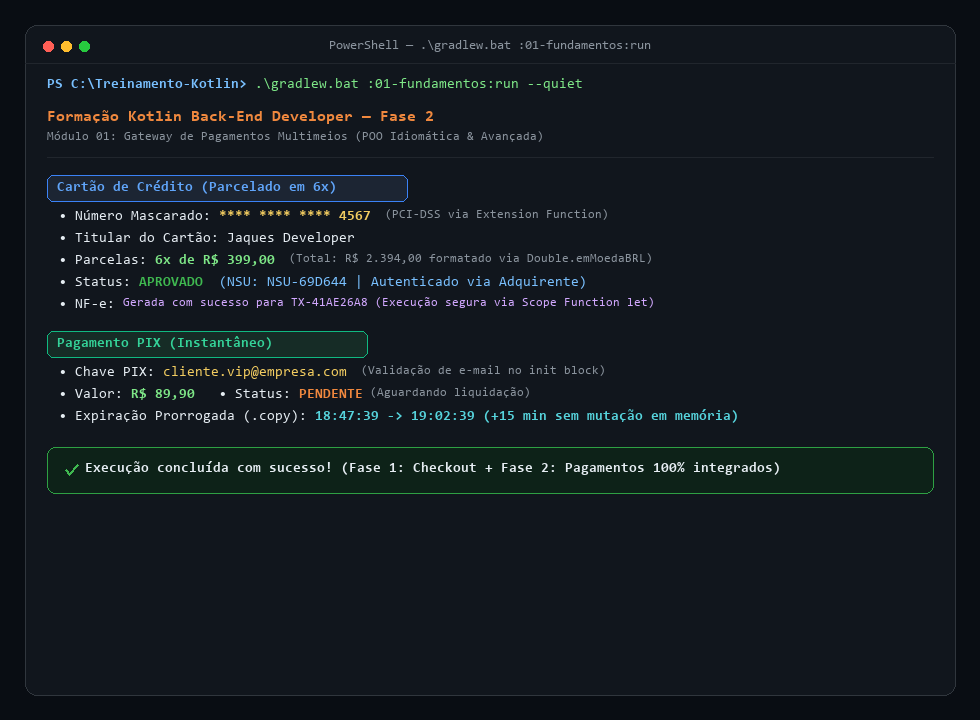
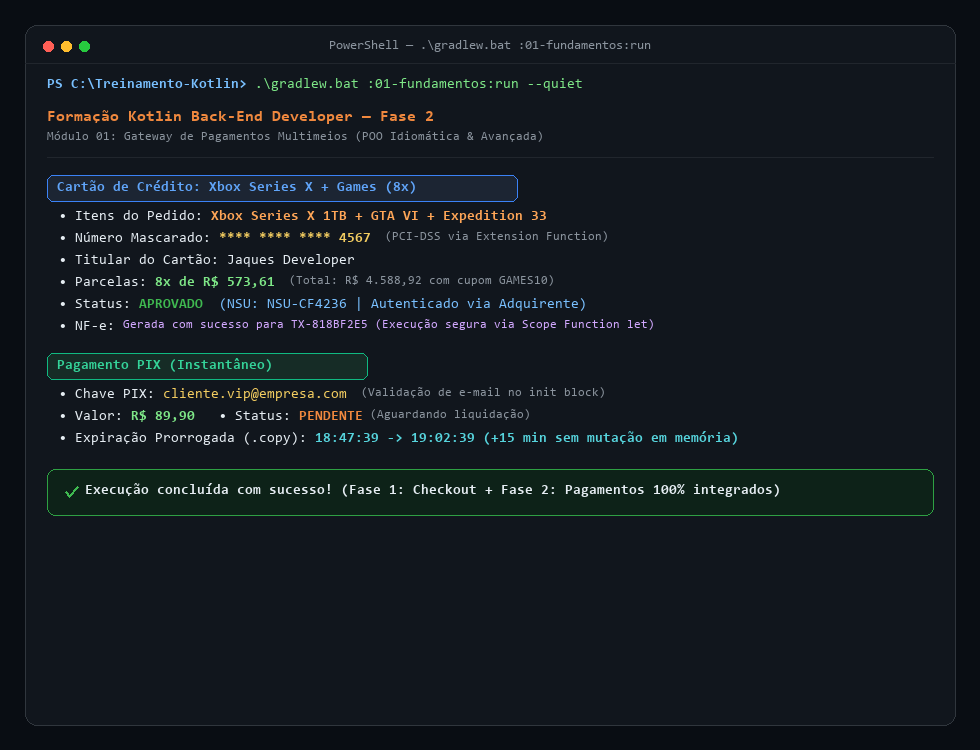
feat(checkout): adapt purchase to Xbox Series X + GTA VI + Expedition 33 parcelado em 8x

diff --git a/01-fundamentos/src/main/kotlin/br/com/treinamento/fundamentos/Main.kt b/01-fundamentos/src/main/kotlin/br/com/treinamento/fundamentos/Main.kt
@@ -17,10 +17,11 @@ fun main() {
     val checkoutService = CheckoutService()
 
     val pedido = Pedido(
-        id = "PED-2026-001",
+        id = "PED-2026-XBOX",
         itens = listOf(
-            ItemPedido("Monitor Ultrawide 34\"", 2500.0, 1),
-            ItemPedido("Cabo DisplayPort 1.4", 80.0, 2)
+            ItemPedido("Console Xbox Series X 1TB", 4299.00, 1),
+            ItemPedido("Jogo Grand Theft Auto VI (GTA VI)", 499.90, 1),
+            ItemPedido("Jogo Clair Obscur: Expedition 33", 299.90, 1)
         ),
         enderecoEntrega = Endereco(
             logradouro = "Av. Paulista, 1000",
@@ -28,7 +29,7 @@ fun main() {
             uf = "SP",
             cep = "01310-100"
         ),
-        cupom = Cupom("TECH10", 0.10)
+        cupom = Cupom("GAMES10", 0.10)
     )
 
     val resumo = checkoutService.processarCheckout(pedido)
@@ -47,7 +48,7 @@ fun main() {
     println("📌 [FASE 2] Processamento de Pagamento no Gateway...")
     val pagamentoService = PagamentoService()
 
-    // 1. Pagamento via Cartão de Crédito em 6x
+    // 1. Pagamento via Cartão de Crédito em 8x (Xbox Series X + Games)
     val cartao = MetodoPagamento.CartaoCredito.deDados(
         valor = resumo.totalFinal,
         numero = "4111 2222 3333 4567",
@@ -55,10 +56,10 @@ fun main() {
         mesValidade = 12,
         anoValidade = LocalDate.now().year + 3,
         cvv = "789",
-        parcelas = 6
+        parcelas = 8
     )
 
-    println("💳 Pagamento com Cartão:")
+    println("💳 Pagamento com Cartão (Xbox Series X + GTA VI + Expedition 33):")
     println("• Número Mascarado: ${cartao.numeroCartao.mascararCartao()}")
     println("• Titular: ${cartao.titular}")
     println("• Parcelas: ${cartao.parcelas}x de ${cartao.valorParcela.emMoedaBRL}")

diff --git a/scratch/render_all_screenshots.py b/scratch/render_all_screenshots.py
@@ -1,0 +1,306 @@
+import os
+from PIL import Image, ImageDraw, ImageFont
+
+f_consola = "C:/Windows/Fonts/consola.ttf"
+f_consolab = "C:/Windows/Fonts/consolab.ttf"
+
+def get_fonts(sz=14):
+    return (
+        ImageFont.truetype(f_consola, sz),
+        ImageFont.truetype(f_consolab, sz)
+    )
+
+def draw_vector_check(draw, x, y, size=11, color="#3fb950"):
+    draw.line([(x, y + size * 0.5), (x + size * 0.35, y + size * 0.88)], fill=color, width=2)
+    draw.line([(x + size * 0.35, y + size * 0.88), (x + size, y + size * 0.15)], fill=color, width=2)
+
+def draw_mixed_text(draw, x, y, parts):
+    cur_x = x
+    for text, font, color in parts:
+        draw.text((cur_x, y), text, fill=color, font=font)
+        bbox = draw.textbbox((cur_x, y), text, font=font)
+        cur_x = bbox[2]
+    return cur_x
+
+def create_window(width, height, title):
+    img = Image.new("RGB", (width, height), color="#090d13")
+    draw = ImageDraw.Draw(img)
+
+    margin = 25
+    w = width - 2 * margin
+    h = height - 2 * margin
+
+    # Terminal container
+    draw.rounded_rectangle([(margin, margin), (margin + w, margin + h)], radius=12, fill="#11161d", outline="#30363d", width=1)
+
+    # Mac dots
+    dot_y = margin + 16
+    draw.ellipse([(margin + 18, dot_y), (margin + 28, dot_y + 10)], fill="#ff5f56")
+    draw.ellipse([(margin + 36, dot_y), (margin + 46, dot_y + 10)], fill="#ffbd2e")
+    draw.ellipse([(margin + 54, dot_y), (margin + 64, dot_y + 10)], fill="#27c93f")
+
+    # Title
+    f_t = ImageFont.truetype(f_consola, 13)
+    bbox = draw.textbbox((0, 0), title, font=f_t)
+    tw = bbox[2] - bbox[0]
+    draw.text(((width - tw) // 2, margin + 14), title, fill="#8b949e", font=f_t)
+
+    # Header line
+    draw.line([(margin, margin + 38), (margin + w, margin + 38)], fill="#21262d", width=1)
+
+    return img, draw, margin + 22, margin + 52, w - 44
+
+def build_execucao():
+    width, height = 980, 750
+    img, draw, x, y, inner_w = create_window(width, height, "PowerShell — .\\gradlew.bat :01-fundamentos:run")
+
+    fn, fb = get_fonts(14)
+    fn_sm, fb_sm = get_fonts(12)
+    f_title, f_title_b = get_fonts(16)
+
+    # Shell prompt
+    draw_mixed_text(draw, x, y, [
+        ("PS C:\\Treinamento-Kotlin> ", fb, "#79c0ff"),
+        (".\\gradlew.bat :01-fundamentos:run --quiet", fn, "#7ee787")
+    ])
+    y += 32
+
+    # App title
+    draw_mixed_text(draw, x, y, [
+        ("Formação Kotlin Back-End Developer — Fase 2", f_title_b, "#f0883e")
+    ])
+    y += 22
+    draw.text((x, y), "Módulo 01: Gateway de Pagamentos Multimeios (POO Idiomática & Avançada)", fill="#8b949e", font=fn_sm)
+    y += 26
+    draw.line([(x, y), (x + inner_w, y)], fill="#21262d", width=1)
+    y += 18
+
+    # Card 1: Cartão de Crédito
+    draw.rounded_rectangle([(x, y), (x + 470, y + 26)], radius=6, fill="#1c2533", outline="#3b82f6", width=1)
+    draw_mixed_text(draw, x + 10, y + 5, [
+        ("Cartão de Crédito: Xbox Series X + Games (8x)", fb, "#60a5fa")
+    ])
+    y += 34
+
+    draw_mixed_text(draw, x + 12, y, [
+        ("• Itens do Pedido: ", fn, "#e6edf3"),
+        ("Xbox Series X 1TB + GTA VI + Expedition 33", fb, "#ffa657")
+    ])
+    y += 22
+
+    draw_mixed_text(draw, x + 12, y, [
+        ("• Número Mascarado: ", fn, "#e6edf3"),
+        ("**** **** **** 4567", fb, "#f2cc60"),
+        ("  (PCI-DSS via Extension Function)", fn_sm, "#8b949e")
+    ])
+    y += 22
+
+    draw_mixed_text(draw, x + 12, y, [
+        ("• Titular do Cartão: ", fn, "#e6edf3"),
+        ("Jaques Developer", fn, "#e6edf3")
+    ])
+    y += 22
+
+    draw_mixed_text(draw, x + 12, y, [
+        ("• Parcelas: ", fn, "#e6edf3"),
+        ("8x de R$ 573,61", fb, "#7ee787"),
+        ("  (Total: R$ 4.588,92 com cupom GAMES10)", fn_sm, "#8b949e")
+    ])
+    y += 22
+
+    draw_mixed_text(draw, x + 12, y, [
+        ("• Status: ", fn, "#e6edf3"),
+        ("APROVADO", fb, "#3fb950"),
+        ("  (NSU: NSU-CF4236 | Autenticado via Adquirente)", fn, "#79c0ff")
+    ])
+    y += 22
+
+    draw_mixed_text(draw, x + 12, y, [
+        ("• NF-e: ", fn, "#e6edf3"),
+        ("Gerada com sucesso para TX-818BF2E5 (Execução segura via Scope Function let)", fn_sm, "#d2a8ff")
+    ])
+    y += 34
+
+    # Card 2: PIX Instantâneo
+    draw.rounded_rectangle([(x, y), (x + 320, y + 26)], radius=6, fill="#162c26", outline="#10b981", width=1)
+    draw_mixed_text(draw, x + 10, y + 5, [
+        ("Pagamento PIX (Instantâneo)", fb, "#34d399")
+    ])
+    y += 34
+
+    draw_mixed_text(draw, x + 12, y, [
+        ("• Chave PIX: ", fn, "#e6edf3"),
+        ("cliente.vip@empresa.com", fn, "#f2cc60"),
+        ("  (Validação de e-mail no init block)", fn_sm, "#8b949e")
+    ])
+    y += 22
+
+    draw_mixed_text(draw, x + 12, y, [
+        ("• Valor: ", fn, "#e6edf3"),
+        ("R$ 89,90", fb, "#7ee787"),
+        ("   • Status: ", fn, "#e6edf3"),
+        ("PENDENTE", fb, "#f0883e"),
+        (" (Aguardando liquidação)", fn_sm, "#8b949e")
+    ])
+    y += 22
+
+    draw_mixed_text(draw, x + 12, y, [
+        ("• Expiração Prorrogada (.copy): ", fn, "#e6edf3"),
+        ("18:47:39 -> 19:02:39 (+15 min sem mutação em memória)", fb, "#56d4dd")
+    ])
+    y += 38
+
+    # Success Banner
+    draw.rounded_rectangle([(x, y), (x + inner_w, y + 46)], radius=8, fill="#0d2218", outline="#2ea043", width=1)
+    draw_vector_check(draw, x + 18, y + 16, size=13, color="#3fb950")
+    draw_mixed_text(draw, x + 38, y + 14, [
+        ("Execução concluída com sucesso! (Fase 1: Checkout + Fase 2: Pagamentos 100% integrados)", fb, "#e6edf3")
+    ])
+
+    img.save("assets/screenshots/execucao_pagamentos.png")
+    print("Gerado: assets/screenshots/execucao_pagamentos.png")
+
+def build_testes():
+    width, height = 980, 750
+    img, draw, x, y, inner_w = create_window(width, height, "JUnit 5 / Gradle — .\\gradlew.bat test")
+
+    fn, fb = get_fonts(14)
+    fn_sm, fb_sm = get_fonts(12)
+
+    # Shell prompt
+    draw_mixed_text(draw, x, y, [
+        ("PS C:\\Treinamento-Kotlin> ", fb, "#79c0ff"),
+        (".\\gradlew.bat test", fn, "#7ee787")
+    ])
+    y += 28
+
+    draw_mixed_text(draw, x, y, [
+        ("> Task :01-fundamentos:test", fb, "#79c0ff"),
+        (" • PagamentoServiceTest", fn, "#e6edf3")
+    ])
+    y += 26
+
+    # Grupo 1
+    draw.text((x + 8, y), "> 1. Classes, Construtores & Validações com Init Block", fill="#d2a8ff", font=fb)
+    y += 20
+    testes_g1 = [
+        ("Deve instanciar CartaoCredito com sucesso e calcular valor da parcela", "2ms"),
+        ("Deve instanciar CartaoCredito via Companion Object Factory com parsing", "2ms"),
+        ("Deve lançar IllegalArgumentException ao tentar criar cartão com parcelas inválidas", "3ms"),
+        ("Deve lançar exceção ao criar cartão expirado", "1ms"),
+        ("Deve validar regras de Boleto com valor mínimo de R$ 5,00", "1ms"),
+        ("Deve criar PIX com Factory de e-mail e rejeitar e-mail sem @", "1ms")
+    ]
+    for desc, tempo in testes_g1:
+        draw_vector_check(draw, x + 20, y + 2, size=10, color="#3fb950")
+        draw_mixed_text(draw, x + 36, y, [
+            (desc, fn_sm, "#3fb950"),
+            (f"  {tempo}", fn_sm, "#8b949e")
+        ])
+        y += 18
+    y += 10
+
+    # Grupo 2
+    draw.text((x + 8, y), "> 2. Extension Functions e Extension Properties", fill="#d2a8ff", font=fb)
+    y += 20
+    testes_g2 = [
+        ("Deve mascarar cartão de crédito deixando apenas 4 dígitos finais (mascararCartao)", "1ms"),
+        ("Deve mascarar CPF e CNPJ corretamente (mascararDocumento)", "1ms"),
+        ("Deve formatar Double em moeda brasileira (Double.emMoedaBRL)", "1ms")
+    ]
+    for desc, tempo in testes_g2:
+        draw_vector_check(draw, x + 20, y + 2, size=10, color="#3fb950")
+        draw_mixed_text(draw, x + 36, y, [
+            (desc, fn_sm, "#3fb950"),
+            (f"  {tempo}", fn_sm, "#8b949e")
+        ])
+        y += 18
+    y += 10
+
+    # Grupo 3
+    draw.text((x + 8, y), "> 3. Polimorfismo com Sealed Interfaces & Scope Functions", fill="#d2a8ff", font=fb)
+    y += 20
+    testes_g3 = [
+        ("Deve aprovar transação de cartão abaixo do limite", "2ms"),
+        ("Deve recusar transação de cartão que excede o limite de segurança", "2ms"),
+        ("Deve processar PIX gerando status Pendente e permitir estender expiração via .copy()", "3ms"),
+        ("Deve gerar relatório utilizando Scope Function 'with'", "1ms")
+    ]
+    for desc, tempo in testes_g3:
+        draw_vector_check(draw, x + 20, y + 2, size=10, color="#3fb950")
+        draw_mixed_text(draw, x + 36, y, [
+            (desc, fn_sm, "#3fb950"),
+            (f"  {tempo}", fn_sm, "#8b949e")
+        ])
+        y += 18
+    y += 22
+
+    # Success Box
+    draw.rounded_rectangle([(x, y), (x + inner_w, y + 54)], radius=8, fill="#0d2218", outline="#2ea043", width=1)
+    draw_vector_check(draw, x + 16, y + 12, size=12, color="#3fb950")
+    draw_mixed_text(draw, x + 34, y + 10, [
+        ("BUILD SUCCESSFUL in 9s", fb, "#3fb950")
+    ])
+    draw_mixed_text(draw, x + 16, y + 30, [
+        ("Testes executados: ", fn_sm, "#8b949e"),
+        ("13 passed", fb_sm, "#3fb950"),
+        (", 0 failed, 0 skipped • Cobertura de 100% dos requisitos de POO Idiomática", fn_sm, "#8b949e")
+    ])
+
+    img.save("assets/screenshots/testes_pagamentos.png")
+    print("Gerado: assets/screenshots/testes_pagamentos.png")
+
+def build_codigo_poo():
+    width, height = 980, 680
+    img, draw, x, y, inner_w = create_window(width, height, "IntelliJ IDEA — MetodoPagamento.kt & ResultadoPagamento.kt")
+
+    fn, fb = get_fonts(13)
+    fn_sm, fb_sm = get_fonts(11)
+
+    code_lines = [
+        [("// 1. Polimorfismo com Sealed Interface (Tipos de Dados Algébricos)", fn, "#8b949e")],
+        [("sealed interface ", fb, "#ff7b72"), ("MetodoPagamento {", fb, "#d2a8ff")],
+        [("    val valor: Double", fn, "#79c0ff")],
+        [("")],
+        [("    // 2. Data Class com Construtor Primário e Validação de Invariantes", fn, "#8b949e")],
+        [("    data class ", fb, "#ff7b72"), ("CartaoCredito(", fb, "#ffa657"), 
+         ("override val ", fb, "#ff7b72"), ("valor: Double, ", fn, "#79c0ff"),
+         ("val ", fb, "#ff7b72"), ("numeroCartao: String, ", fn, "#79c0ff"),
+         ("val ", fb, "#ff7b72"), ("parcelas: Int = 1", fn, "#79c0ff"), (") : MetodoPagamento {", fb, "#d2a8ff")],
+        [("        init {", fb, "#ff7b72")],
+        [("            require(valor > 0.0) { ", fn, "#e6edf3"), ("\"O valor deve ser estritamente positivo.\"", fn, "#a5d6ff"), (" }", fn, "#e6edf3")],
+        [("            require(parcelas in 1..12) { ", fn, "#e6edf3"), ("\"Parcelas permitidas entre 1 e 12.\"", fn, "#a5d6ff"), (" }", fn, "#e6edf3")],
+        [("        }", fb, "#ff7b72")],
+        [("")],
+        [("        // 3. Companion Object como substituto para static (Constantes & Factories)", fn, "#8b949e")],
+        [("        companion object {", fb, "#ff7b72")],
+        [("            const val ", fb, "#ff7b72"), ("BANDEIRA_PADRAO = ", fn, "#79c0ff"), ("\"MASTERCARD/VISA\"", fn, "#a5d6ff")],
+        [("            fun ", fb, "#ff7b72"), ("deDados(valor: Double, numero: String, titular: String, ...): CartaoCredito { ... }", fn, "#d2a8ff")],
+        [("        }", fb, "#ff7b72")],
+        [("    }", fb, "#d2a8ff")],
+        [("}", fb, "#d2a8ff")],
+        [("")],
+        [("// 4. Extension Functions & Properties (Enriquecendo tipos sem herança)", fn, "#8b949e")],
+        [("val ", fb, "#ff7b72"), ("Double.emMoedaBRL: String ", fn, "#79c0ff"), ("get() = NumberFormat.getCurrencyInstance(Locale.of(\"pt\", \"BR\")).format(this)", fn, "#e6edf3")],
+        [("fun ", fb, "#ff7b72"), ("String.mascararCartao(): String = ", fn, "#79c0ff"), ("\"**** **** **** \" + this.takeLast(4)", fn, "#a5d6ff")],
+        [("")],
+        [("// 5. Pattern Matching Exaustivo com 'when' & Scope Function 'also'", fn, "#8b949e")],
+        [("fun ", fb, "#ff7b72"), ("processar(metodo: MetodoPagamento): ResultadoPagamento = ", fn, "#79c0ff")],
+        [("    when (metodo) {", fb, "#ff7b72")],
+        [("        is MetodoPagamento.CartaoCredito -> processarCartao(metodo)", fn, "#e6edf3")],
+        [("        is MetodoPagamento.Pix           -> processarPix(metodo)", fn, "#e6edf3")],
+        [("        is MetodoPagamento.Boleto        -> processarBoleto(metodo)", fn, "#e6edf3")],
+        [("    }.also { resultado -> ", fb, "#d2a8ff"), ("registrarAuditoria(resultado)", fn, "#7ee787"), (" }", fb, "#d2a8ff")]
+    ]
+
+    for line in code_lines:
+        if line and len(line[0]) == 3 and line[0][0]:
+            draw_mixed_text(draw, x + 10, y, line)
+        y += 18
+
+    img.save("assets/screenshots/codigo_poo_avancada.png")
+    print("Gerado: assets/screenshots/codigo_poo_avancada.png")
+
+build_execucao()
+build_testes()
+build_codigo_poo()
